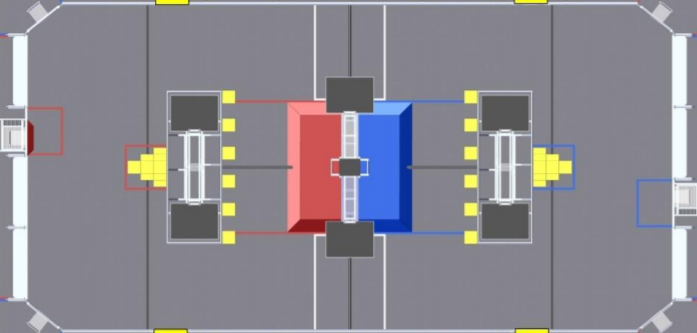
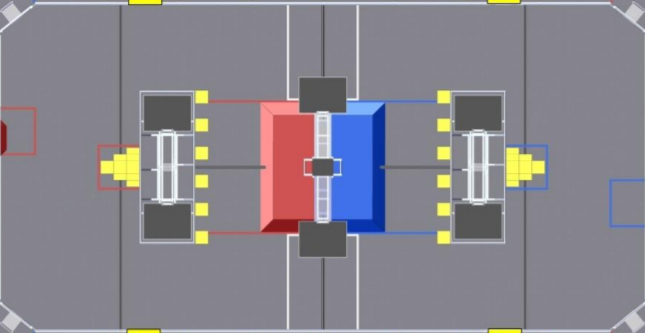
fix constants
resized images, converted dimensions into feet, got field and robot dimensions

diff --git a/script.js b/script.js
@@ -2,10 +2,10 @@ var waypoints = [];
 var ctx;
 var width = 1656; //pixels
 var height = 823; //pixels
-var fieldWidth = 652; // in inches
-var fieldHeight = 324; // in inches
-var robotWidth = 30;//35.45; //inches
-var robotHeight = 30;//33.325; //inches
+var fieldWidth = 54*12; // 648 in inches 652
+var fieldHeight = 27*12; // 324 in inches 
+var robotWidth = 35;//12;//35.45; //inches 33 x 28 = 40 x 35
+var robotHeight = 40;//12;//33.325; //inches
 var pointRadius = 5;
 var turnRadius = 30;
 var kEpsilon = 1E-9;
@@ -89,7 +89,7 @@ class Waypoint {
 	constructor(position, angle, comment) {
 		this.position = position;
 		//this.speed = speed;
-		this.angle = angle;
+		this.angle = -angle;
 		this.comment = comment;
 	}
 
@@ -99,7 +99,7 @@ class Waypoint {
 
 	toString() {
 		//var comment = (this.comment.length > 0) ? " //" + this.comment : "";
-		return "new Waypoint("+this.position.x+","+this.position.y+","+this.angle+"),";// + comment;
+		return "new Waypoint("+this.position.x/12+","+this.position.y/12+","+this.angle+"),";// + comment;
 	}
 }
 
@@ -271,10 +271,10 @@ function addPoint() {
 	if(waypoints.length > 0)
 		prev = waypoints[waypoints.length - 1].position;
 	else 
-		prev = new Translation2d(50, 50);
+		prev = new Translation2d(5, 5);
 	$("tbody").append("<tr>"
-		+"<td><input value='"+(prev.x+20)+"'></td>"
-		+"<td><input value='"+(prev.y+20)+"'></td>"
+		+"<td><input value='"+((prev.x/12)+2)+"'></td>"
+		+"<td><input value='"+((prev.y/12)+2)+"'></td>"
 		+"<td><input value='0'></td>"
 		//+"<td class='comments'><input placeholder='Comments'></td>"
 		+"<td><button onclick='$(this).parent().parent().remove();update()'>Delete</button></td></tr>"
@@ -293,9 +293,9 @@ function addPoint() {
 function update() {
 	waypoints = [];
 	$('tbody').children('tr').each(function () {
-        var x = parseInt( $($($(this).children()).children()[0]).val() );
+        var x = parseInt( $($($(this).children()).children()[0]).val()*12 );
         console.log(x);
-        var y = parseInt( $($($(this).children()).children()[1]).val() );
+        var y = parseInt( $($($(this).children()).children()[1]).val()*12 );
         var angle = parseInt( $($($(this).children()).children()[2]).val() );
         //var speed = parseInt( $($($(this).children()).children()[3]).val() );
         if(isNaN(angle)){ //|| isNaN(speed)) {

diff --git a/index.html b/index.html
@@ -183,8 +183,8 @@
 		</thead>
 		<tbody>
 			<tr>
-				<td class="x"><input value="50"></td>
-				<td class="y"><input value="50"></td>
+				<td class="x"><input value="2"></td>
+				<td class="y"><input value="4.5"></td>
 				<td class="angle"><input value="0"></td>
 				<!-- <td class="comments"><input placeholder="Comments"></td> -->
 			</tr>
